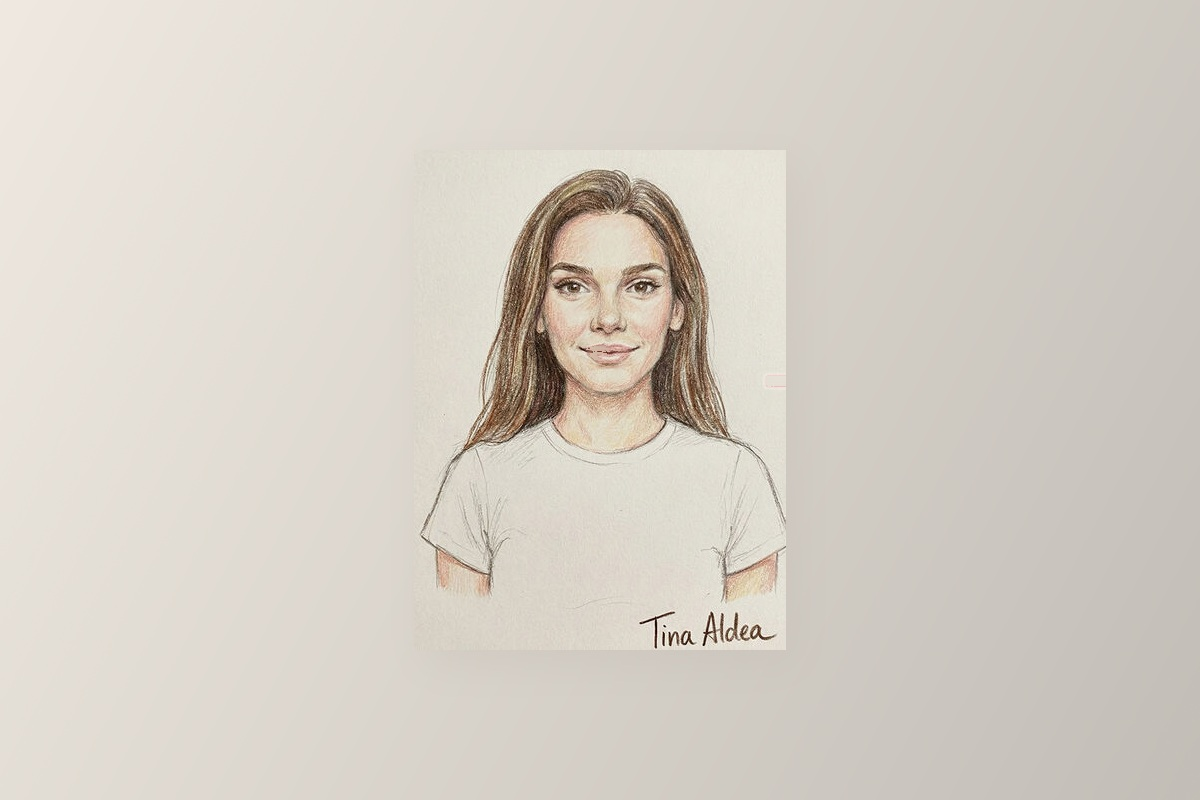
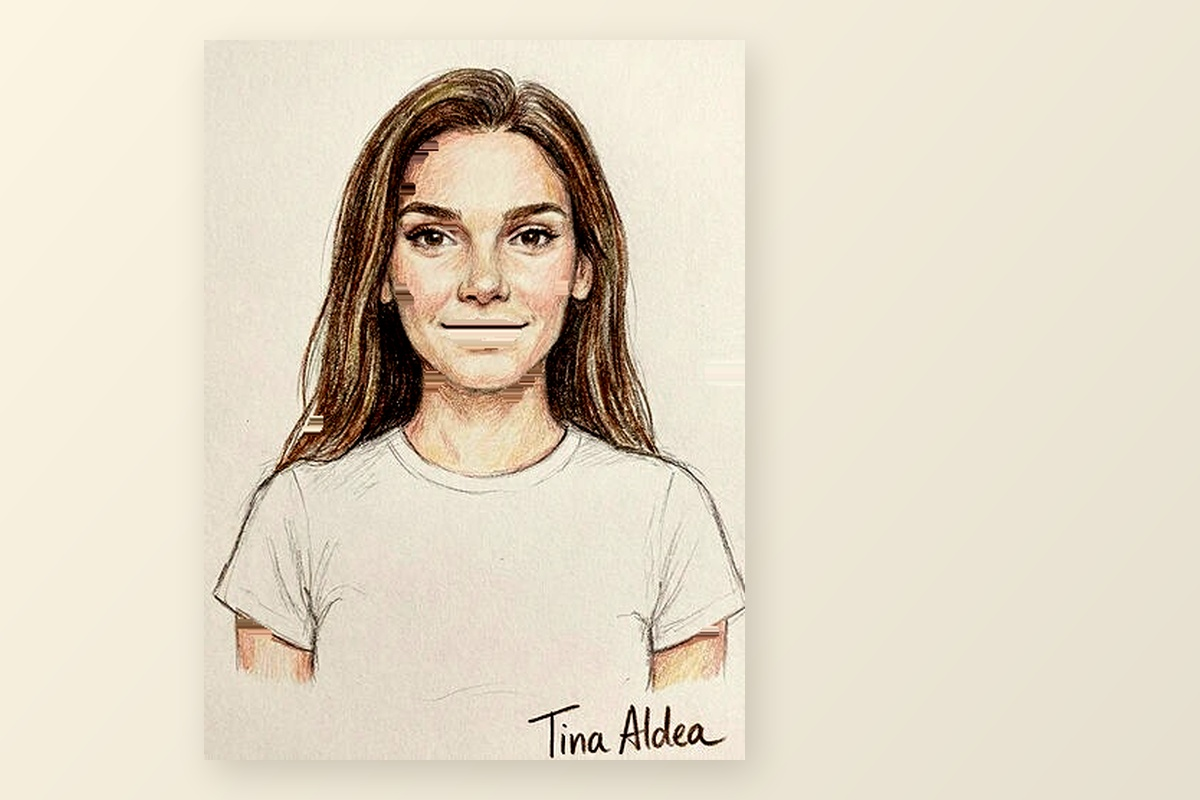
ads: regenerate on Higgsfield gpt_image_2_5, rebuild the plain plates
Switch the generation route from ElevenLabs seedream to Higgsfield
gpt_image_2_5 (flare). A batch of four costs 1 credit against roughly
$0.60, renders 3:2 natively so no crop is needed for Taboola, and got
the portrait sheet right on the first attempt.

Both scene plates rebuilt on that route: the sheet is now large and flat
to the lens, so the sketch reads at the ~300px the ad actually renders at.
Plain sketch plates rebuilt too - the old ones had a grey-pink field, the
drawing at a third of the frame width and the vendor's red arrow stub
still showing.

Record in CAMPAIGN.md to price a generation route before the first call,
and to review every plate in a thumbnail strip rather than at full size.

Claude-Session: https://claude.ai/code/session_01Ky2EpeQAbUG2Kw3ug7yjtW

diff --git a/research/clickbank-product-mastery/plain_plate.py b/research/clickbank-product-mastery/plain_plate.py
@@ -1,0 +1,42 @@
+import sys
+import numpy as np
+from PIL import Image, ImageFilter
+sys.path.insert(0, '.')
+from composite import clean_sketch, CREAM, CONTRAST
+
+W, H = 1200, 800
+
+
+def build(src, out, left_frac=0.17):
+    s = clean_sketch(src)
+    s = np.clip(CREAM - (CREAM - s) * CONTRAST, 0, 255)
+    sk = Image.fromarray(s.astype(np.uint8))
+
+    # the drawing carries the ad, so give it nearly the full height
+    sh = int(H * 0.90)
+    sw = int(round(sh * sk.width / sk.height))
+    sk = sk.resize((sw, sh), Image.LANCZOS)
+
+    # warm paper field, very slightly graded so it does not look like flat fill
+    yy, xx = np.mgrid[0:H, 0:W]
+    grad = 1.0 - 0.055 * (xx / W) - 0.03 * (yy / H)
+    bg = np.clip(CREAM * grad[..., None] * 1.02, 0, 255)
+    canvas = Image.fromarray(bg.astype(np.uint8))
+
+    x = int(W * left_frac)
+    y = (H - sh) // 2
+
+    # a soft drop shadow so the sheet sits on the surface instead of floating
+    sh_layer = Image.new('L', (W, H), 0)
+    sh_layer.paste(255, (x + 10, y + 14, x + sw + 10, y + sh + 14))
+    sh_layer = sh_layer.filter(ImageFilter.GaussianBlur(18))
+    dark = Image.new('RGB', (W, H), (120, 108, 92))
+    canvas = Image.composite(dark, canvas, sh_layer.point(lambda v: int(v * 0.30)))
+
+    canvas.paste(sk, (x, y))
+    canvas.save(out, quality=95)
+    print(out, (x, y, sw, sh))
+
+
+if __name__ == '__main__':
+    build(sys.argv[1], sys.argv[2])

diff --git a/research/clickbank-product-mastery/composite_sketch.py b/research/clickbank-product-mastery/composite_sketch.py
@@ -3,6 +3,7 @@ import numpy as np
 from PIL import Image, ImageFilter
 
 CREAM = np.array([247., 240., 223.])
+CONTRAST = 1.45
 
 
 def clean_sketch(path):
@@ -47,6 +48,9 @@ def make_page(sketch, pw, ph, frac=0.93, left=None, top=0.42):
     lum = s.mean(2)
     paper = s[lum > np.percentile(lum, 88)].mean(0)
     s = np.clip(s * (CREAM / paper), 0, 255)
+    # a pencil drawing photographed on paper is low contrast; at ad-thumbnail
+    # size it dissolves, so deepen everything away from the paper white
+    s = np.clip(CREAM - (CREAM - s) * CONTRAST, 0, 255)
 
     # feather the block into the page over a small border
     fx = max(4, int(sw * 0.05))
@@ -121,7 +125,7 @@ def warp_onto(plate, page, quad, feather=2.0):
         base = np.array([np.median(blur[..., c][inside]) for c in range(3)])
     else:
         base = blur.reshape(-1, 3).mean(0)
-    shade = np.clip(blur / np.maximum(base, 1e-6), 0.72, 1.28)
+    shade = np.clip(blur / np.maximum(base, 1e-6), 0.82, 1.12)
     lit = np.clip(samp * shade, 0, 255)
 
     a = inside.astype(float)

diff --git a/research/clickbank-product-mastery/CAMPAIGN.md b/research/clickbank-product-mastery/CAMPAIGN.md
@@ -277,3 +277,26 @@ Mistake worth not repeating: the first pass set a 16:9 frame but never said the
 *sheet* had to be portrait, so the model drew a landscape sheet and a portrait
 sketch could not be laid on it without stretching the face. Orientation of the
 object has to be stated separately from the frame.
+
+### Where to generate: Higgsfield, not ElevenLabs
+
+**Use `gpt_image_2_5` (variant `flare`) through the Higgsfield MCP.** Preflight
+every call with `get_cost: true` before submitting.
+
+| | ElevenLabs `bytedance-seedream-5-pro` | Higgsfield `gpt_image_2_5` flare |
+|---|---|---|
+| Cost, batch of 4 | 3,272 credits ≈ **$0.60** | **1 credit** (0.25 each) |
+| Native 3:2 | no — 16:9, then crop | **yes**, Taboola's own ratio |
+| Sheet rendered as asked | repeatedly wrong | right first time |
+
+Same prompt, same four variations, and the Higgsfield plates were better. Roughly
+60x the cost for a worse result; several pounds of credit went on it before the
+check was run. **Check the price of a generation route before the first call,
+not after the sixth.**
+
+### Review creative at the size it runs
+
+A 1200x800 native ad renders at roughly 300px wide in feed. Judge every plate in
+a ~320px thumbnail strip before calling it finished. The first scene composites
+looked fine at 1100px and were unreadable at ad size: the drawing was about 15%
+of the frame, the paper was blown to white and the signature was a grey smudge.
